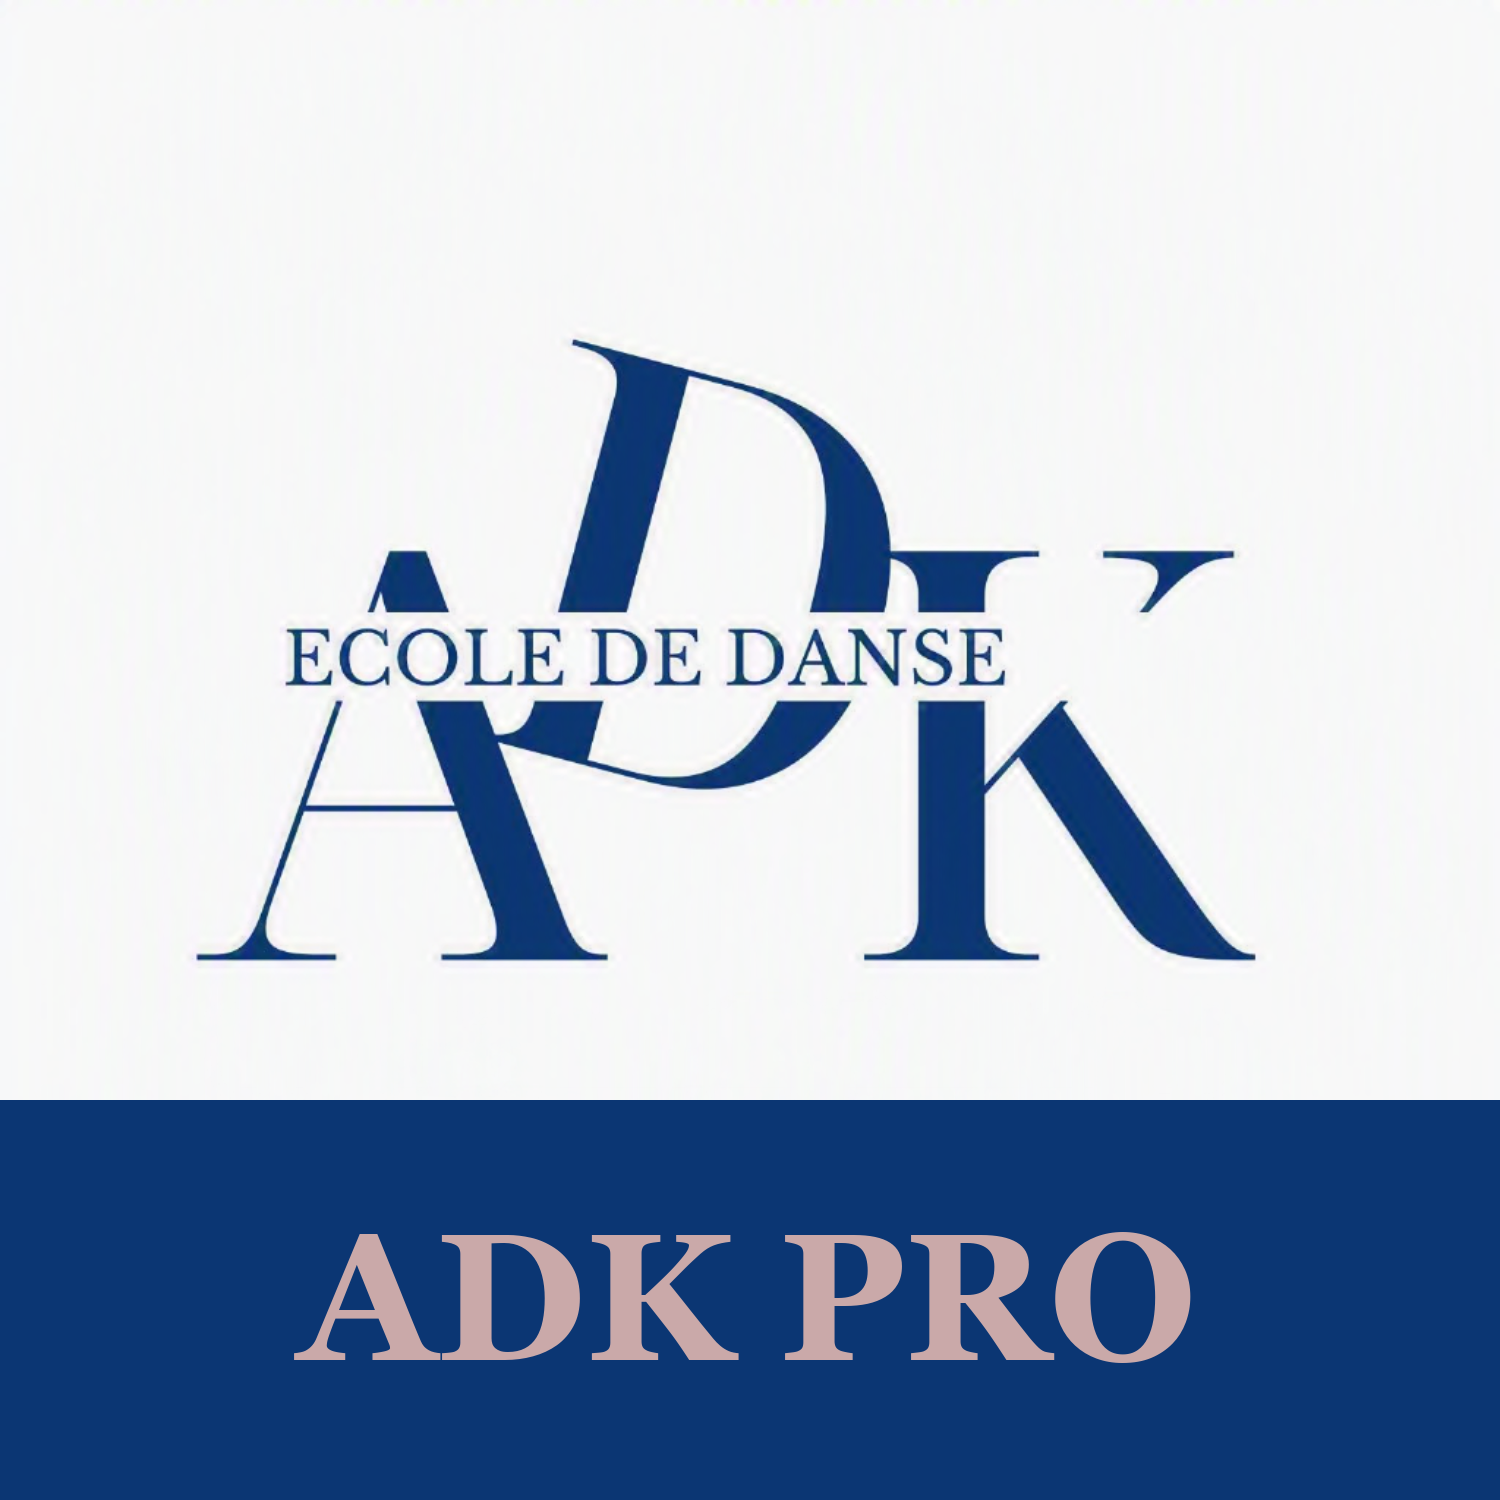
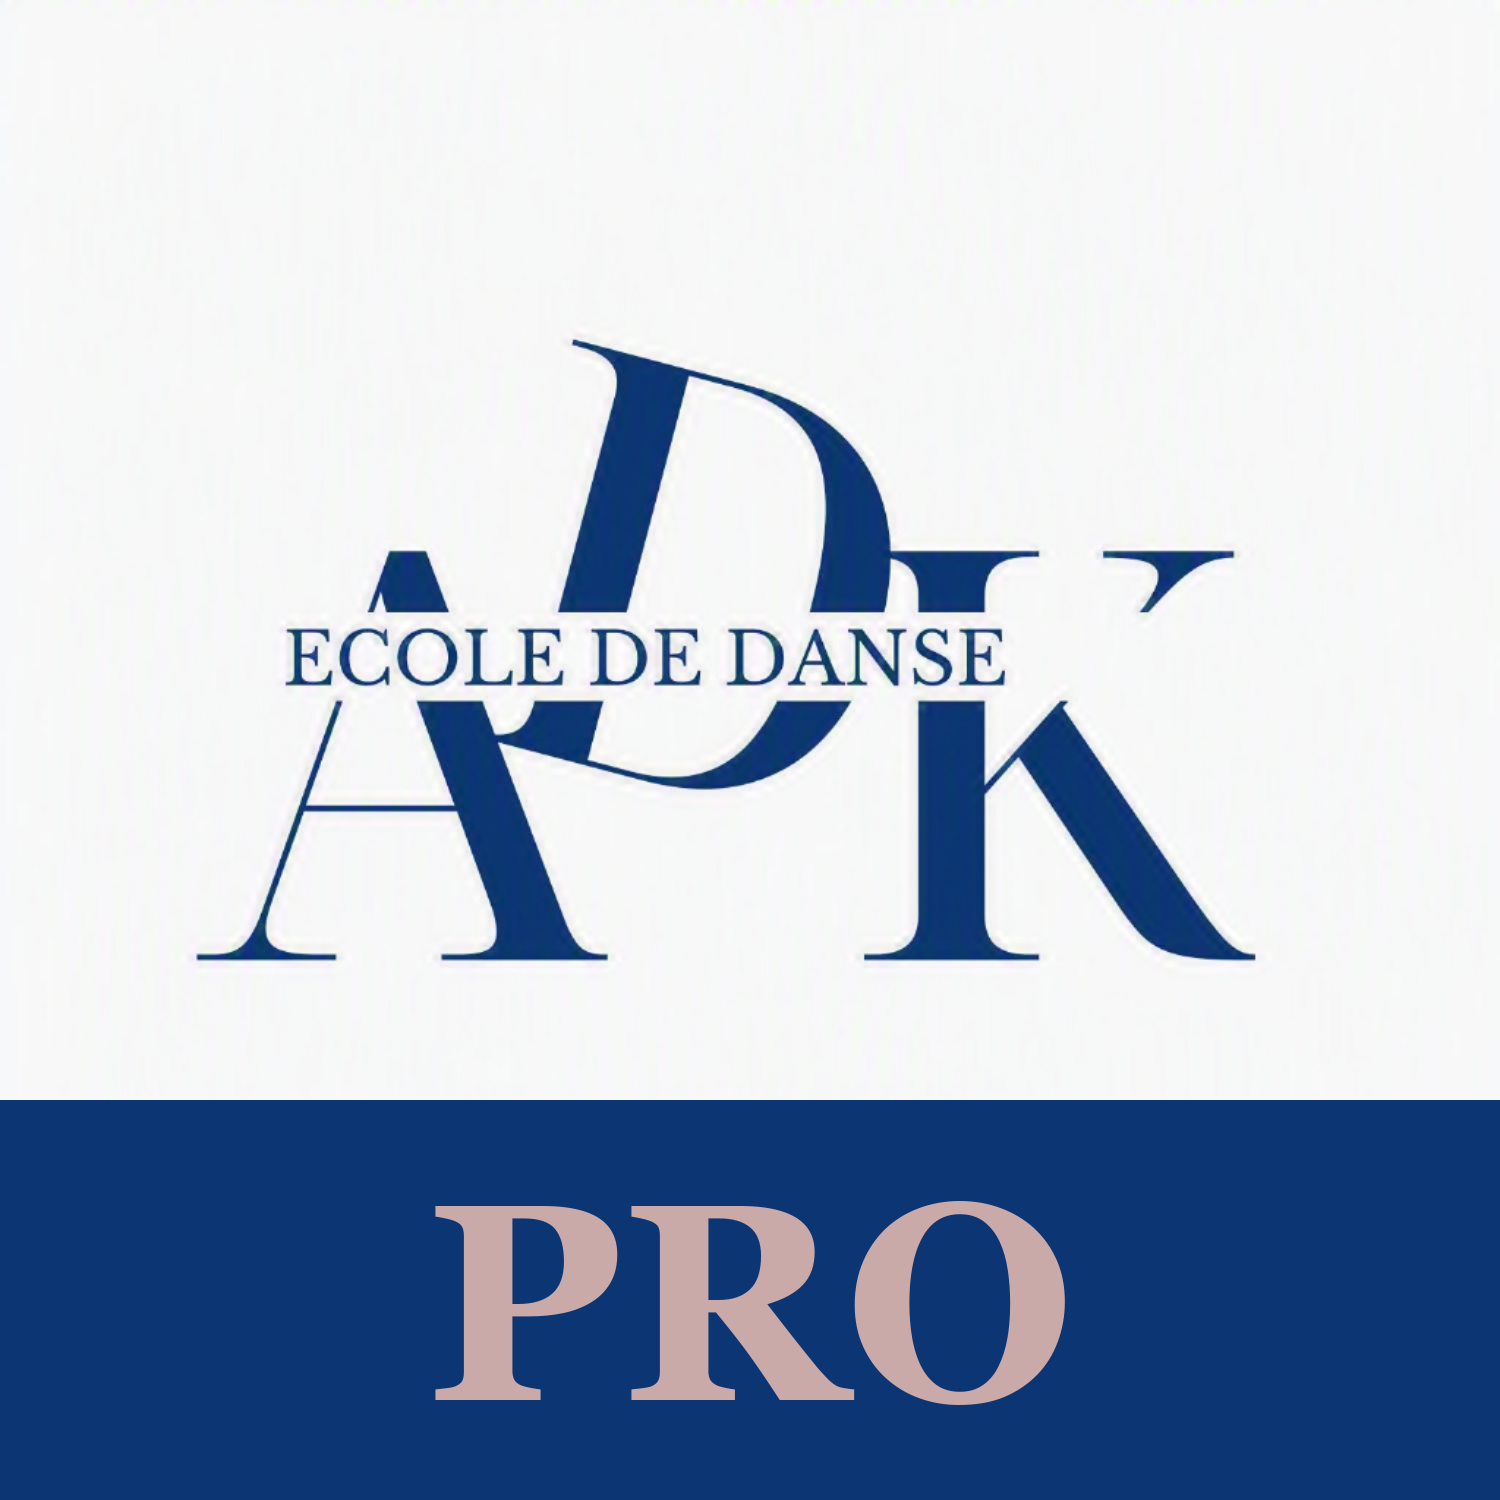
style: Use larger text without ADK prefix for fallback images

Changed region(s): [[0.184, 0.7973, 0.7973, 0.9507], [0.736, 0.7973, 0.7667, 0.828]]

diff --git a/js/app.js b/js/app.js
@@ -188,9 +188,9 @@ function createCourseCard(course) {
     img = `<img src="${course.image}" alt="${course.name}" class="course-img" loading="lazy">`;
   } else {
     let typeLabel = '';
-    if (course.eventType === 'pro') typeLabel = 'img/adk_pro.png?v=2';
-    else if (course.eventType === 'stage') typeLabel = 'img/adk_stage.png?v=2';
-    else if (course.eventType === 'show') typeLabel = 'img/adk_show.png?v=2';
+    if (course.eventType === 'pro') typeLabel = 'img/adk_pro.png?v=3';
+    else if (course.eventType === 'stage') typeLabel = 'img/adk_stage.png?v=3';
+    else if (course.eventType === 'show') typeLabel = 'img/adk_show.png?v=3';
     
     if (typeLabel) {
       img = `<img src="${typeLabel}" alt="${course.name}" class="course-img" loading="lazy">`;
@@ -2844,9 +2844,9 @@ function renderPlanningCards(courseIds, containerId, emptyMsg = 'Aucun cours.', 
       imgHtml = `<img src="${c.image}" class="portal-course-img" alt="${c.name}">`;
     } else {
       let fallbackSrc = '';
-      if (c.eventType === 'pro') fallbackSrc = 'img/adk_pro.png?v=2';
-      else if (c.eventType === 'stage') fallbackSrc = 'img/adk_stage.png?v=2';
-      else if (c.eventType === 'show') fallbackSrc = 'img/adk_show.png?v=2';
+      if (c.eventType === 'pro') fallbackSrc = 'img/adk_pro.png?v=3';
+      else if (c.eventType === 'stage') fallbackSrc = 'img/adk_stage.png?v=3';
+      else if (c.eventType === 'show') fallbackSrc = 'img/adk_show.png?v=3';
       
       if (fallbackSrc) {
           imgHtml = `<img src="${fallbackSrc}" class="portal-course-img" alt="${c.name}">`;

diff --git a/portail.html b/portail.html
@@ -1476,7 +1476,7 @@
   <script type="module" src="js/data.js?v=57"></script>
   <script type="module" src="js/auth.js?v=24"></script>
   <script type="module" src="js/chat.js?v=51"></script>
-  <script type="module" src="js/app.js?v=54"></script>
+  <script type="module" src="js/app.js?v=55"></script>
   <script>
     // Init emoji picker
     document.addEventListener('DOMContentLoaded', () => {
